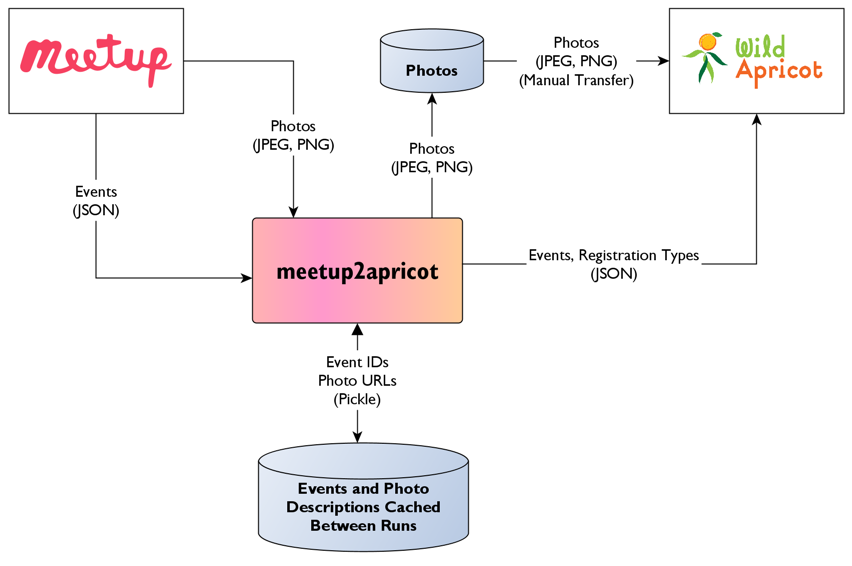
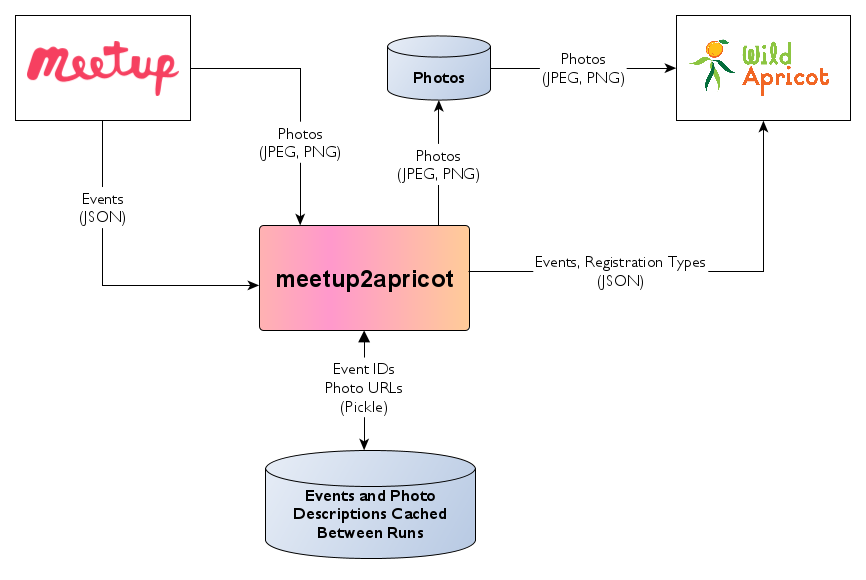
Document photo uploading to Wild Apricot.

diff --git a/docs/user-manual/configuration.rst b/docs/user-manual/configuration.rst
@@ -83,6 +83,31 @@ credential to meetup2apricot.
 :doc:`apricot-application-authorization` explains how to authorize the
 meetup2apricot application and obtain its API key.
 
+.. _`wild-apricot-photo-uploading`:
+
+Wild Apricot Photo Uploading
+----------------------------
+
+Wild Apricot authenticates event photo uploads with a username and password
+authorized to add files via the administration web interface.
+Environment variables :envvar:`APRICOT_PHOTO_USERNAME` and
+:envvar:`APRICOT_PHOTO_PASSWORD` provide the credentials.
+For example::
+
+   # Wild Apricot username with file uploading authorization
+   export APRICOT_PHOTO_USERNAME="someone@nova-labs.org"
+
+   # Wild Apricot password for the username
+   export APRICOT_PHOTO_PASSWORD="zvbxrpl"
+
+Meetup2Apricot uploads event photos to a resource folder under Nova Labs' base
+URL at Wild Apricot.
+The environment variable :envvar:`APRICOT_PHOTO_BASE_URL` provides the base URL.
+For example::
+
+   # Base URL for uploading photos to Wild Apricot
+   export APRICOT_PHOTO_BASE_URL="https://portal.nova-labs.org"
+
 .. _`wild-apricot-paths`:
 
 Wild Apricot Paths

diff --git a/docs/user-manual/overview.rst b/docs/user-manual/overview.rst
@@ -8,13 +8,13 @@ Overview
    :name: meetup2apricot-event-data-flow
 
    Meetup2apricot retrieves event data and photos from Meetup, transforms the
-   data, and adds events and registration types to Wild Apricot.
-   Administrators later manually upload the photos to Wild Apricot.
+   data, uploads photos to Wild Apricot, and adds events and registration types to
+   Wild Apricot.
 
 :program:`Meetup2apricot` is a command line program that retrieves event
 descriptions from Meetup and adds them to Wild Apricot.
-Meetup2apricot also downloads featured event photos from Meetup for manual
-upload to Wild Apricot.
+Meetup2apricot also downloads featured event photos from Meetup and uploads
+them to Wild Apricot.
 :numref:`Figure %s <meetup2apricot-event-data-flow>` shows event data flow from
 Meetup to Wild Apricot.
 

diff --git a/README.rst b/README.rst
@@ -47,7 +47,7 @@ Features
 * Retrieves events from the Meetup API.
 * Translates accounting codes into event tags to categorize events on Wild Apricot.
 * Inserts events via the Wild Apricot API.
-* Downloads events' featured photos from Meetup into a local directory for manual upload to Wild Apricot.
+* Downloads events' featured photos from Meetup into a local directory and uploads them to Wild Apricot.
 * Caches processed events and photos to avoid duplication.
 
 Credits

diff --git a/docs/user-manual/prerequisites.rst b/docs/user-manual/prerequisites.rst
@@ -52,7 +52,7 @@ You should be familiar with the concepts of Python virtual environments.
 
 You must be able to use a text editor to edit configuration files.
 
-You must have administrative access to Wild Apricot to upload photos and to
+You must have administrative access to Wild Apricot to
 review and edit events.
 
 .. _`Installing packages using pip and virtual environments`: https://packaging.python.org/guides/installing-using-pip-and-virtual-environments/

diff --git a/HISTORY.rst b/HISTORY.rst
@@ -12,8 +12,10 @@ Future History
 Recent History
 ~~~~~~~~~~~~~~
 
-.. Next Release
-.. ------------------
+Next Release
+------------------
+
+* Upload event photos to Wild Apricot via WEBDAV.
 
 1.9.0 (2021-08-10)
 ------------------
